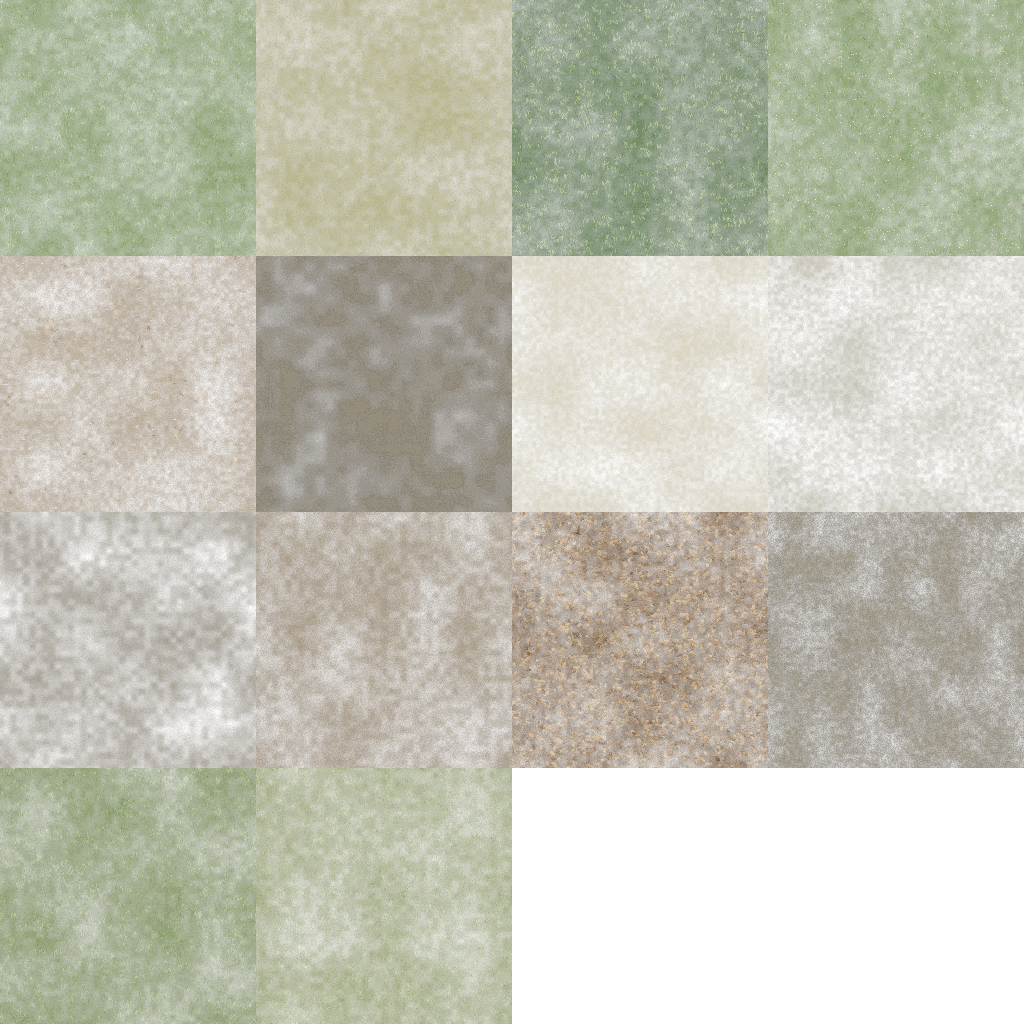
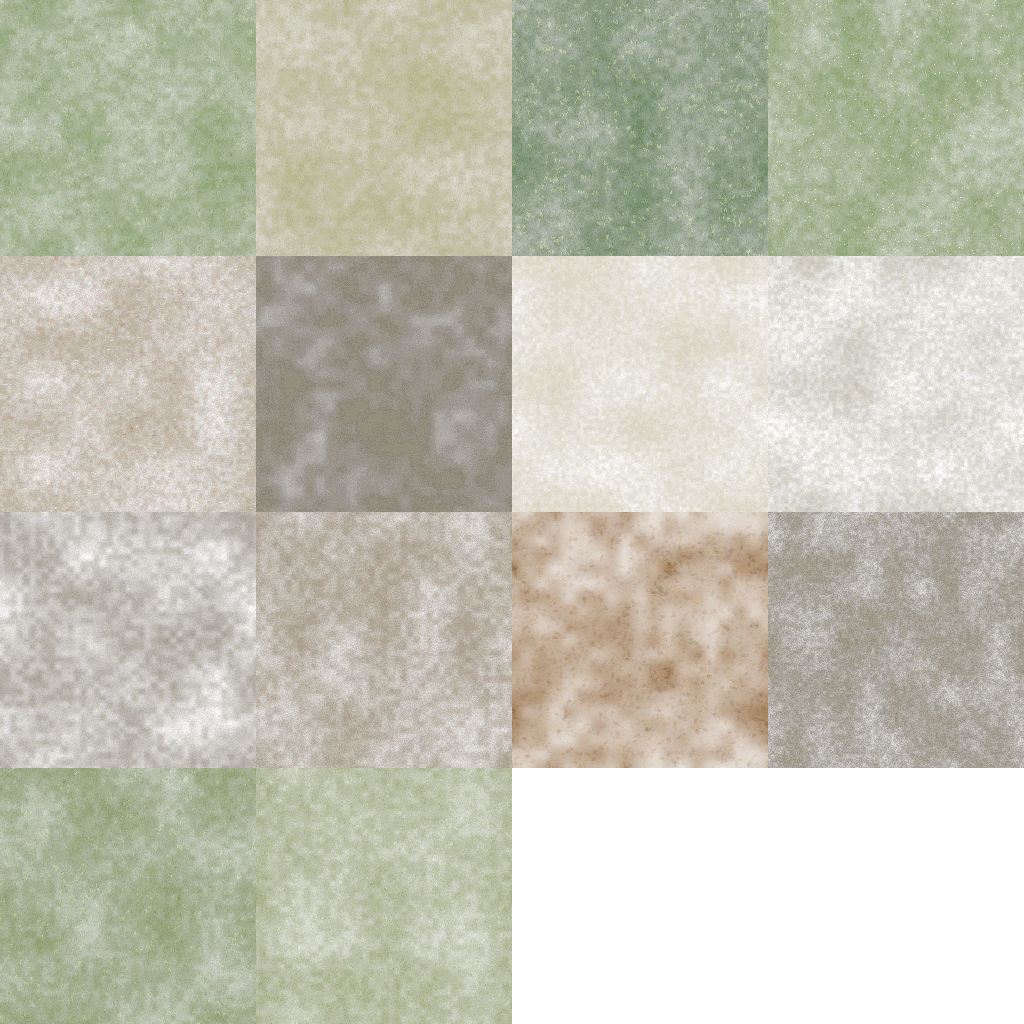
Ground made soft: the litter in close warm tones that drift between gold and orange, olive autumn grass (#8)

Changed region(s): [[0.5, 0.5, 0.75, 0.75]]

diff --git a/tools/ground_atlas.py b/tools/ground_atlas.py
@@ -53,13 +53,17 @@ def make(seed, ramp, coarse=6, fine=40, grain=0.25, fleck=None, fleck_n=0, heigh
     return np.dstack([rgb, h * 255]).astype(np.uint8)
 
 
-def strew(tile, seed, n, colours, length=(4.0, 6.5), lift=0.0):
+def strew(tile, seed, n, colours, length=(4.5, 7.0), lift=0.0, edge=0.9, drift=True):
     """Fallen leaves on a tile, each one a leaf: a pointed oval a few texels long at its own angle, lying over the
     ones before it, its lower edge a shade darker so it stands off what it lies on."""
     rng = np.random.default_rng(seed)
     rgb = tile[:, :, :3].astype(float)
     hgt = tile[:, :, 3].astype(float)
     cols = np.array([hexc(c) for c in colours])
+    # (the colours run light to dark: a slow noise says which end a leaf's patch of ground leans to, so the carpet
+    # lies in soft drifts of gold and orange and never speckles)
+    lean = tile_noise(rng, 4) * 0.6 + tile_noise(rng, 9) * 0.4
+    lean = (lean - lean.min()) / (lean.max() - lean.min())
     R = 5
     yy, xx = np.mgrid[-R:R + 1, -R:R + 1]
     for _ in range(n):
@@ -70,12 +74,12 @@ def strew(tile, seed, n, colours, length=(4.0, 6.5), lift=0.0):
         u = xx * np.cos(a) + yy * np.sin(a)
         v = -xx * np.sin(a) + yy * np.cos(a)
         inside = (np.abs(u) / ln) ** 1.5 + (np.abs(v) / wd) ** 1.5 <= 1.0
-        col = cols[rng.integers(0, len(cols))] * rng.uniform(0.9, 1.08)
+        col = cols[int(np.clip(lean[cy, cx] * len(cols) + rng.normal(0, 0.9), 0, len(cols) - 1))] * rng.uniform(0.98, 1.02) if drift else cols[rng.integers(0, len(cols))]
         under = inside & ~np.roll(inside, -1, axis=0)  # its lowest texels
         ys = (cy + yy) % N
         xs = (cx + xx) % N
         rgb[ys[inside], xs[inside]] = col
-        rgb[ys[under], xs[under]] = col * 0.72
+        rgb[ys[under], xs[under]] = col * edge
         hgt[ys[inside], xs[inside]] = np.clip(hgt[ys[inside], xs[inside]] + lift * 255, 0, 255)
     return np.dstack([np.clip(rgb, 0, 255), hgt]).astype(np.uint8)
 
@@ -124,7 +128,8 @@ def tiles(wood, season):
     if autumn:  # the year's fall lies bright on last year's: gold, orange, red
         litter = litter if conifer else ["#7a4319", "#9a551a", "#bb6a1c", "#d8851f"]
         fleck = ["#f2b21e", "#e8701a", "#c4341a", "#f6cf4a", "#8a3a14", "#ff9a22"]
-        grass = ["#4a5a2c", "#566630", "#637335", "#70803a"] if not conifer else grass
+        grass = ["#77803a", "#808840", "#899044", "#929848"] if not conifer else grass
+        dark = ["#5e6c32", "#667436", "#6e7c3a", "#76843e"] if not conifer else dark
     t = {
         0: make(1, grass, blades=0.06, height=0.55),                                                             # grass (conifer: moss)
         1: make(2, ["#6d6a3a", "#7c7842", "#8c874c", "#9b9657"], blades=0.05, height=0.5),                        # dry grass
@@ -145,17 +150,19 @@ def tiles(wood, season):
     # the year; and a wood's grass and trail have leaves and tufts and stones on them too
     if not conifer:
         if autumn:
-            fall = ["#e9b030", "#e09a24", "#d8851f", "#c96a18", "#f2c84a", "#b85a17", "#9a4a16", "#7a3a14", "#d8a03a", "#c4401a"]
-            t[10] = strew(make(11, ["#3e2613", "#4a2d15", "#573518", "#643d1b"], fine=50, grain=0.3, height=0.45), 111, 5200, fall, lift=0.04)
-            for k, n in ((0, 420), (1, 500), (2, 700), (3, 380), (12, 520), (13, 520)):
-                t[k] = strew(tufts(t[k], 200 + k, 900, ["#7f8f40", "#93a04a", "#a8ad55", "#6c7c38"]), 300 + k, n, fall)
-            t[4] = strew(pebbles(t[4], 404, 260, ["#9b9485", "#b0a896", "#857e70"]), 304, 380, fall)
-            t[9] = strew(pebbles(t[9], 409, 160, ["#9b9485", "#857e70"]), 309, 700, fall)
+            # (soft: close warm tones on a warm bed, no dark gaps between the leaves; Dominic: "verry spotty, ground was
+            # soft and pretty in the mockup")
+            fall = ["#ecb848", "#e6ae40", "#e2a538", "#dc9a30", "#d68f2c", "#cf8528", "#c87a26"]
+            t[10] = strew(make(11, ["#c8802a", "#cf892c", "#d6922e", "#dc9a30"], coarse=4, fine=12, grain=0.04, height=0.45), 111, 3600, fall, lift=0.04)
+            for k, n in ((0, 520), (1, 560), (2, 640), (3, 480), (12, 560), (13, 560)):
+                t[k] = strew(tufts(t[k], 200 + k, 500, ["#7f8f40", "#8a9846", "#75853c"]), 300 + k, n, fall)
+            t[4] = strew(pebbles(make(5, ["#806c4c", "#877250", "#8e7854", "#957e58"], fine=30, grain=0.08, height=0.35), 404, 60, ["#a39a86", "#968d7a"]), 304, 200, fall)
+            t[9] = strew(make(10, ["#6e5a3e", "#746042", "#7a6546", "#806a4a"], grain=0.1, height=0.4), 309, 500, fall)
         elif season != "winter":
-            old = ["#8a5c2c", "#7a4f26", "#9a6a34", "#6b4420", "#a87a3c", "#5a3a1c"]
-            t[10] = strew(make(11, ["#3d2a18", "#48321c", "#543a20", "#604324"], fine=50, grain=0.3, height=0.45), 111, 4600, old, lift=0.04)
+            old = ["#8a5c2c", "#845628", "#90622f", "#7c5126", "#966834"]
+            t[10] = strew(make(11, ["#74491f", "#7a4e22", "#805325", "#865828"], coarse=5, fine=18, grain=0.06, height=0.45), 111, 3200, old, lift=0.04)
             for k in (0, 2, 3, 12, 13):
-                t[k] = tufts(t[k], 200 + k, 1100, ["#6f8f44", "#7fa04c", "#5c7a3a", "#8cab55"])
+                t[k] = tufts(t[k], 200 + k, 600, ["#6f8f44", "#7fa04c", "#5c7a3a", "#8cab55"])
             t[4] = strew(pebbles(t[4], 404, 260, ["#9b9485", "#b0a896", "#857e70"]), 304, 120, old)
     else:
         t[4] = pebbles(t[4], 404, 260, ["#9b9485", "#b0a896", "#857e70"])

diff --git a/archive/journal/2026-11-10-rhodope-trees-ground-and-rock.md b/archive/journal/2026-11-10-rhodope-trees-ground-and-rock.md
@@ -247,3 +247,13 @@ beds. The debris' earth is mounds now, not plates. Picture 78.
 
 Not done: the slide leaves one tile of the ledge's lip to squeeze by, because there is no way yet for the men to clear
 it; truly blocked needs that. The ravine's bed is plain rock with a thread of water, and nothing casts a shadow into it.
+
+## Too spotty: the ground made soft (22:16 to 22:25)
+
+Dominic of picture 80: "verry spotty, ground was soft and pretty in the mockup", and he sent the two camp mock-ups
+again. The strewn leaves had ten colours from yellow to dark brown on a dark bed, each with a dark lower edge: every
+leaf stood out from its neighbours. In the mock-up the litter is one warm field that drifts between gold and orange,
+with no dark gaps. Now the leaves take seven close tones, picked by a slow noise so the carpet lies in soft drifts, on a
+bed of the same warmth, their lower edge only a little darker; the autumn grass is an olive gold near the litter in
+value, with more leaves on it, so the two run into each other. Picture 82 (ours above the target). Lesson (Claude):
+"leaves you can see" was the wrong aim; the aim is tone and softness first, detail only where it costs neither.

diff --git a/archive/notes/2026-11-10-dominic-in-his-own-words.md b/archive/notes/2026-11-10-dominic-in-his-own-words.md
@@ -262,3 +262,11 @@ After seeing the first runnable version (its trees were about thirteen men tall)
 
 **21:33**
 > The music has a general tangerine dream feel to it I really like
+
+**22:07**
+> 25 has conflicts again
+
+**22:15** (with a close crop of the new ground: the strewn leaves and herb drifts, picture 80)
+> verry spotty, ground was soft and pretty in the mockup
+
+**22:16** (no words: two of the route mock-ups sent again as the reference for the ground, the beech clearing after leaf-fall, `archive/images/2026-11-10/23-route-beech-after-leaf-fall.jpg`, and the same camp in summer)
